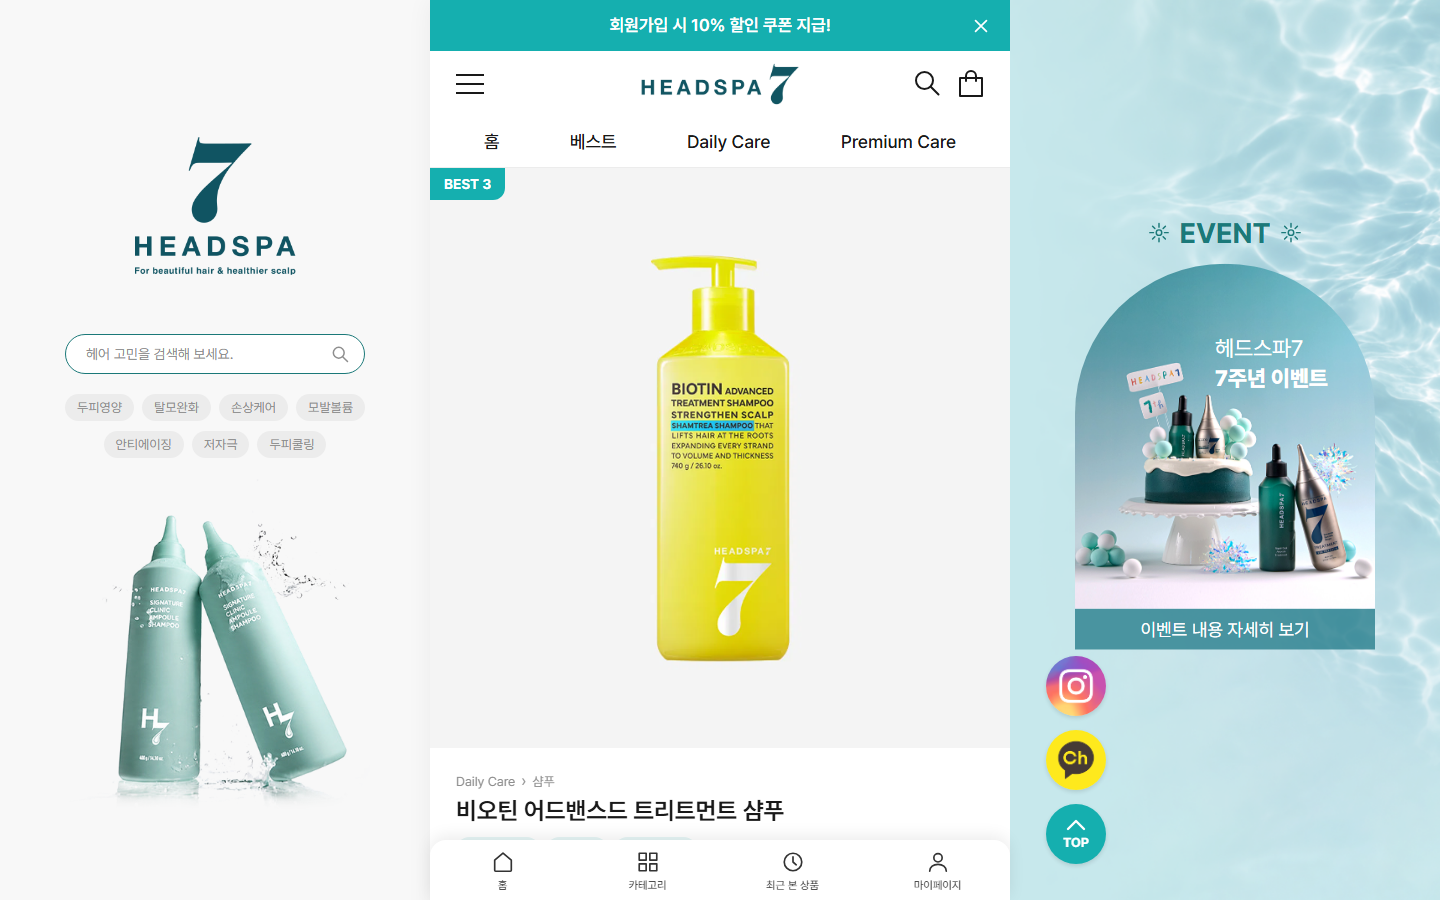
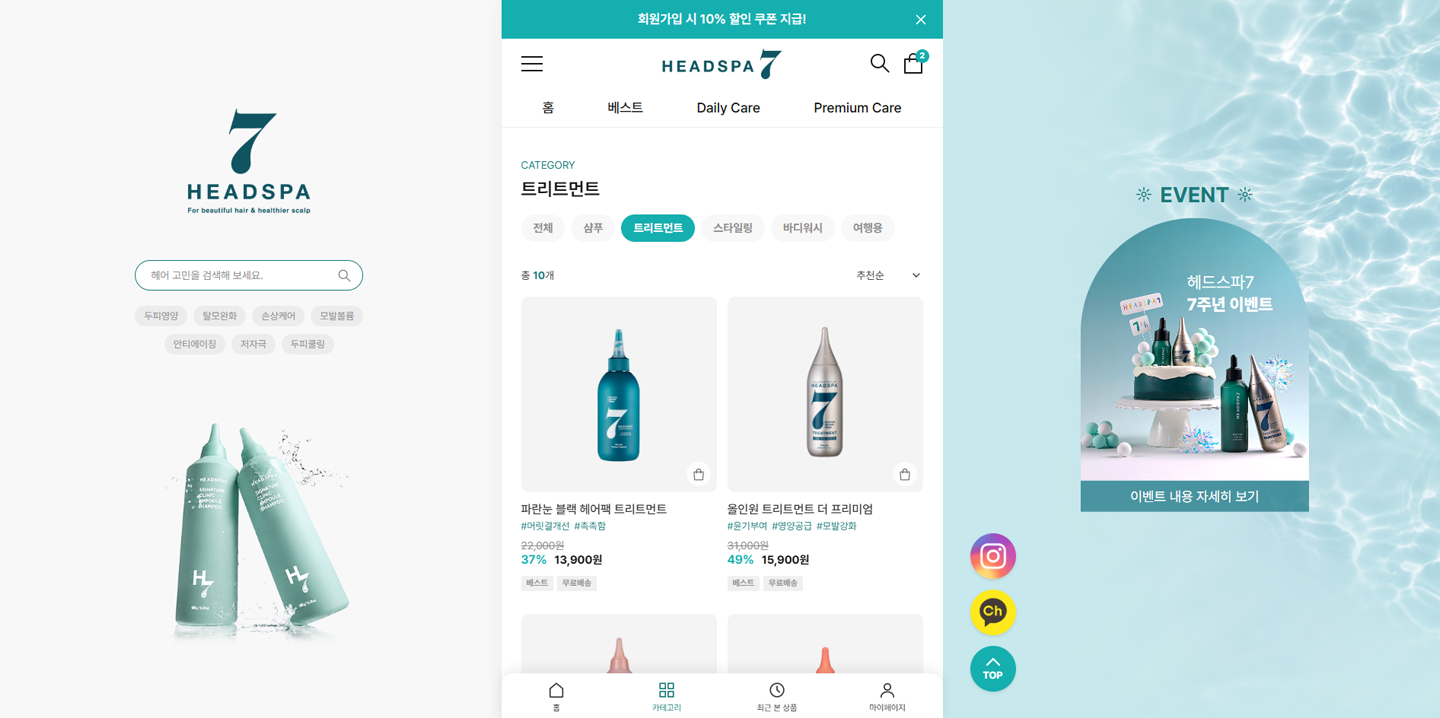
README 스크린샷 교체 (PC 첫 화면, PC 카테고리)

diff --git a/README.md b/README.md
@@ -19,15 +19,15 @@
 
 <br>
 
-![PC 첫 화면 — 가운데 쇼핑몰 화면과 양쪽 검색·이벤트 영역](docs/pc-hero.png)
+![PC 첫 화면 — 가운데 쇼핑몰 화면과 양쪽 검색·이벤트 영역](docs/pc-hero.png?v=2)
 
 <table>
   <tr>
-    <td width="66%"><img src="docs/pc-detail.png" alt="PC 상품 상세 화면"></td>
+    <td width="66%"><img src="docs/pc-detail.png?v=2" alt="PC 카테고리 화면 — 트리트먼트 상품 목록"></td>
     <td width="34%"><img src="docs/mobile-hero.png" alt="모바일 첫 화면"></td>
   </tr>
   <tr>
-    <td align="center">PC · 상품 상세</td>
+    <td align="center">PC · 카테고리</td>
     <td align="center">모바일 · 첫 화면</td>
   </tr>
 </table>
